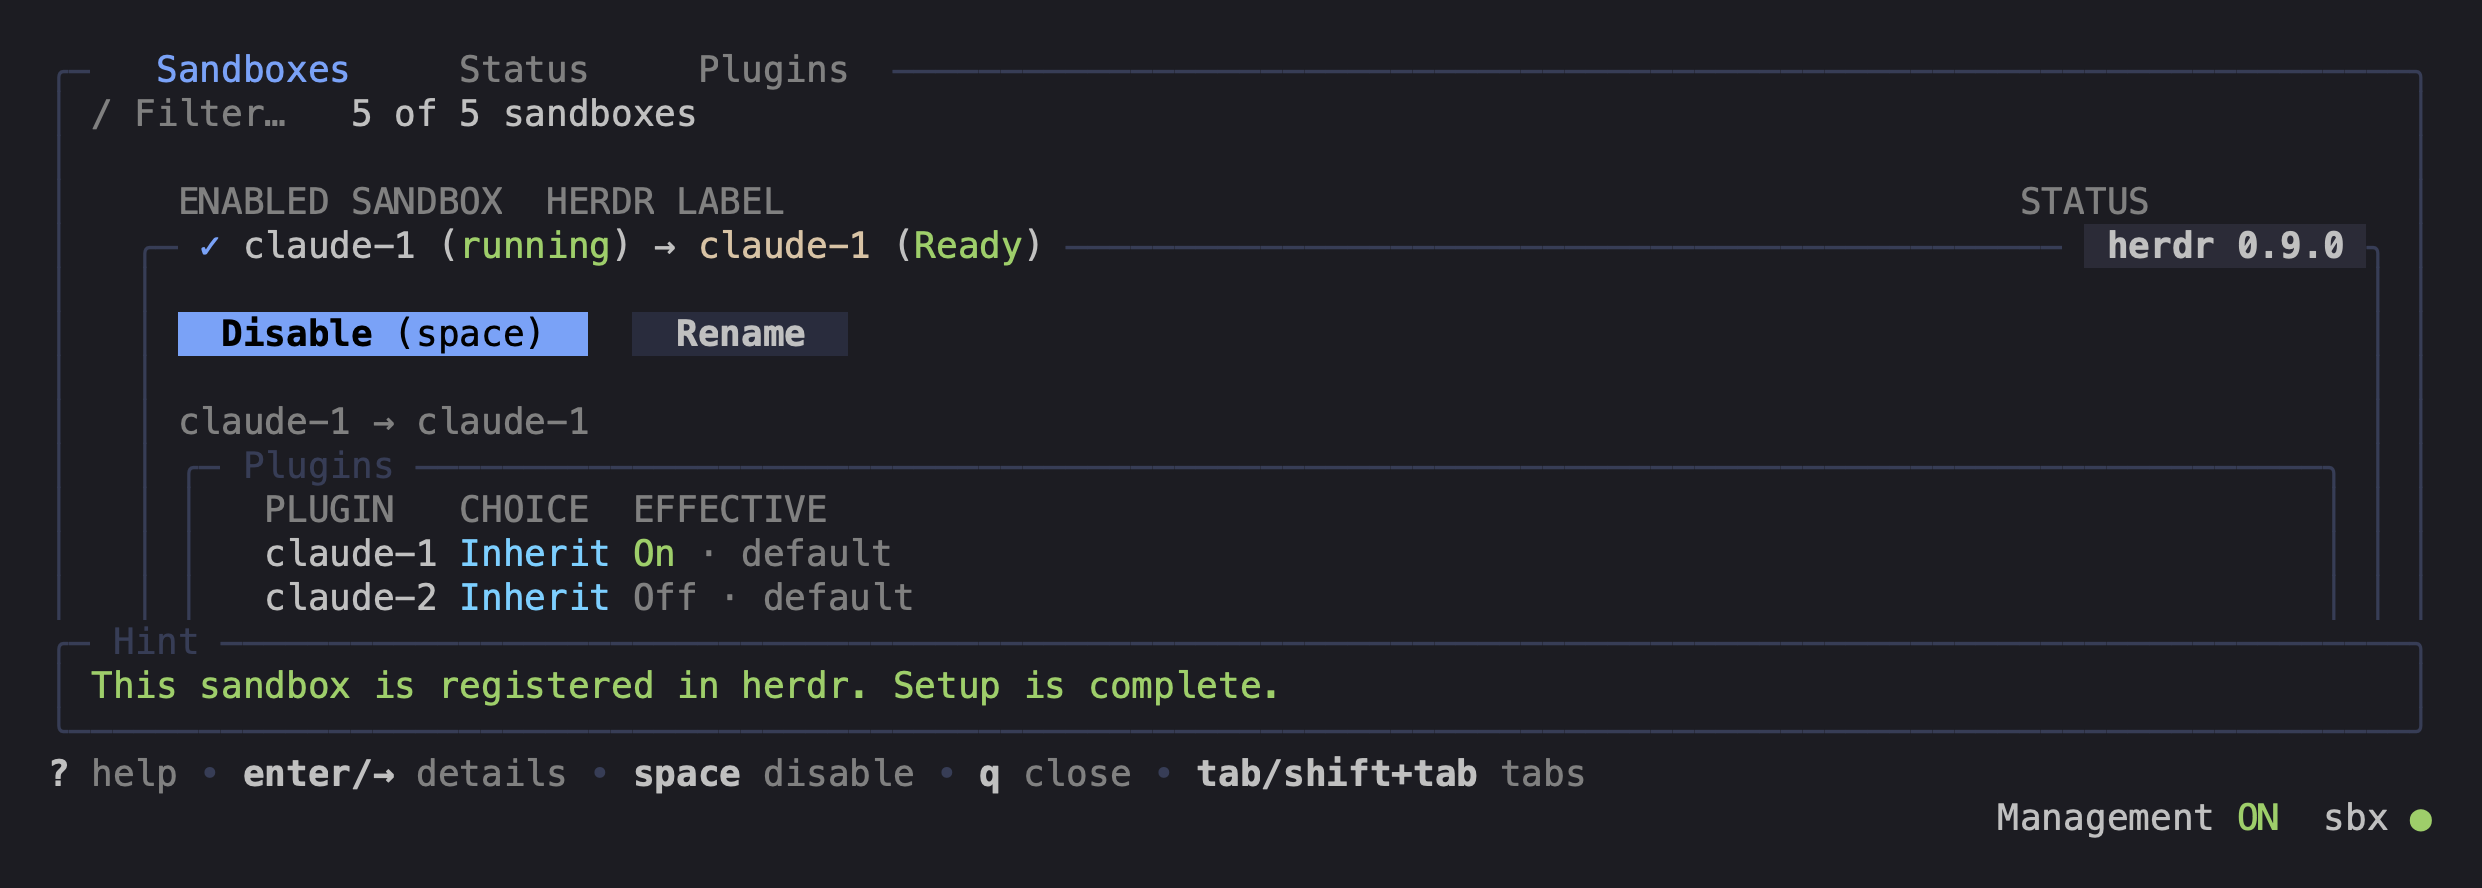
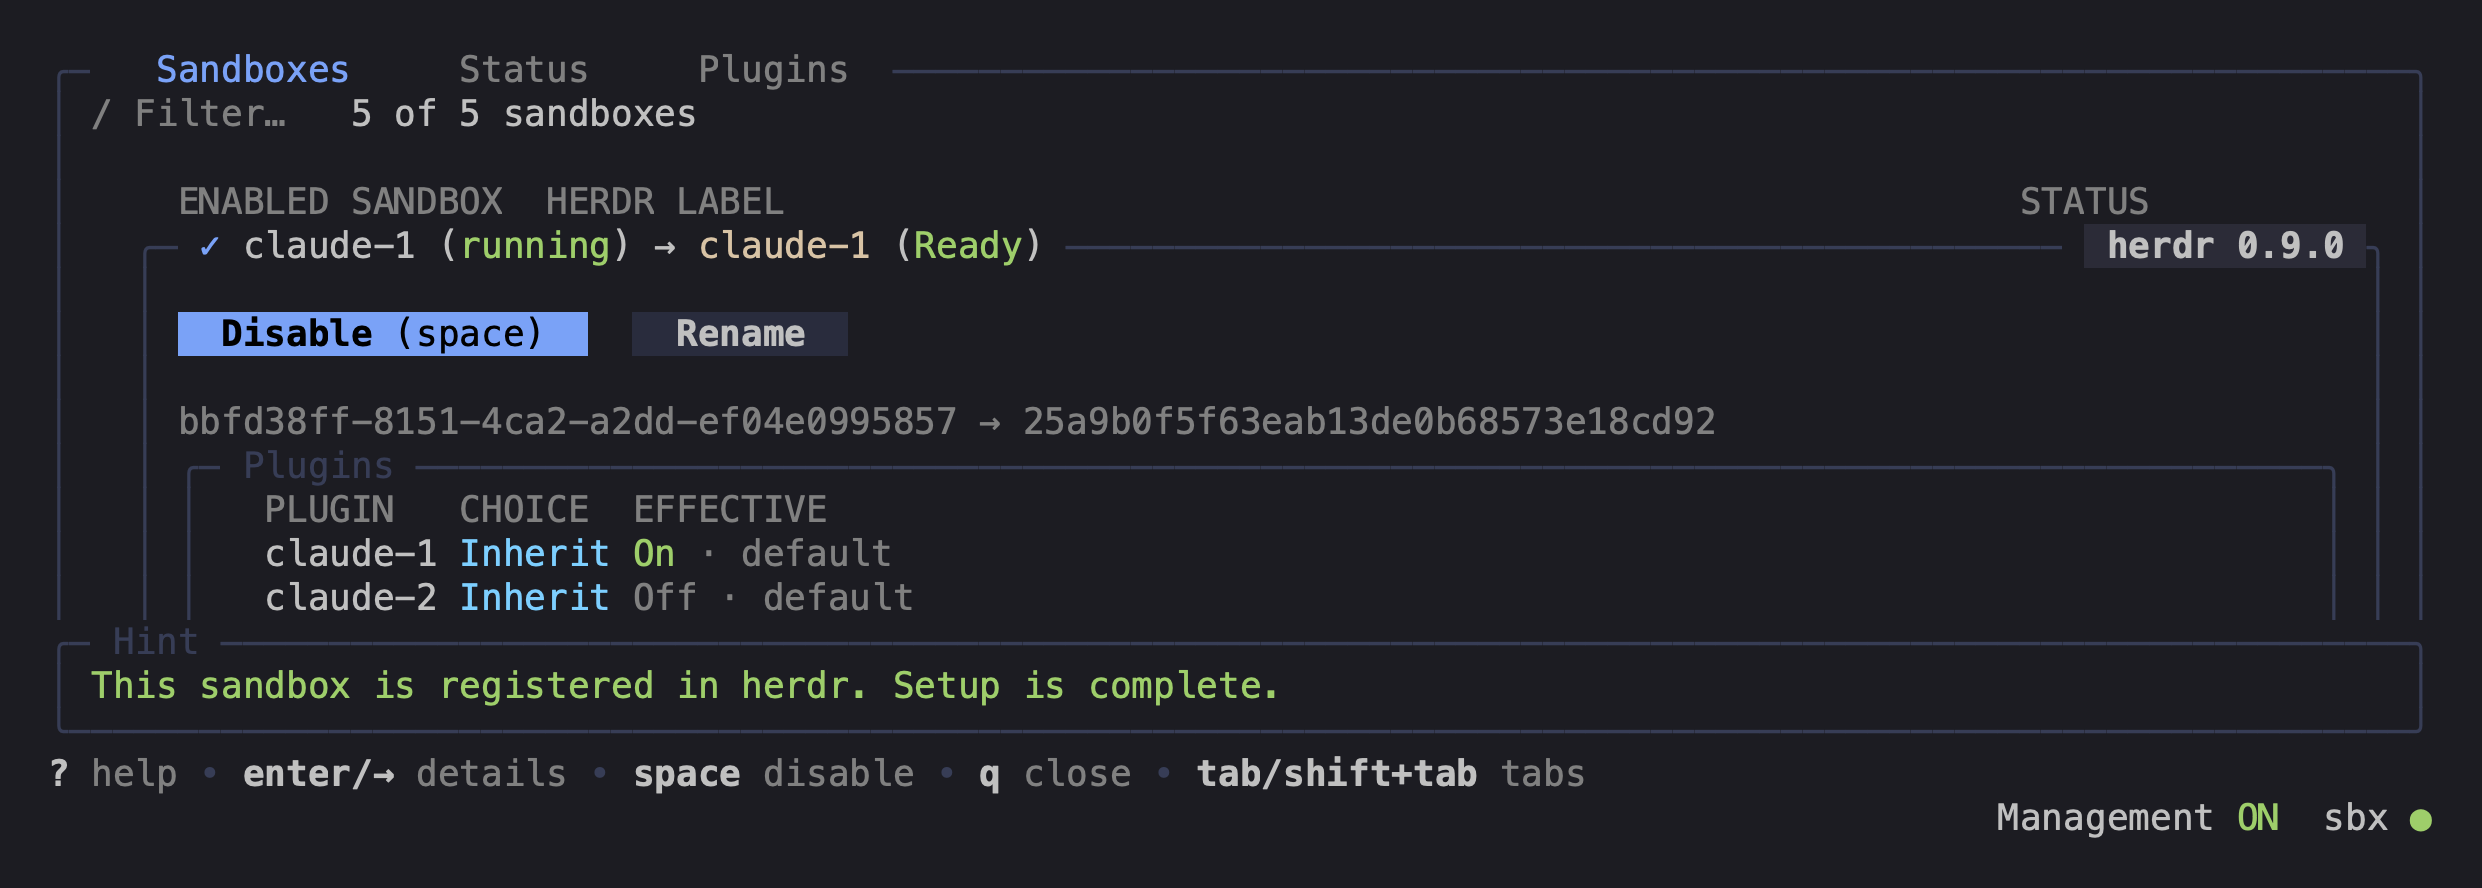
Use realistic sandbox and herdr IDs in screenshots

Changed region(s): [[0.062, 0.4561, 0.6825, 0.4865]]

diff --git a/internal/panel/screenshots_test.go b/internal/panel/screenshots_test.go
@@ -37,10 +37,10 @@ func TestCaptureScreenshots(t *testing.T) {
 	write("sandboxes", m)
 	m = screenshotModel()
 	m.width, m.height = 110, 42
-	m.expanded, m.focus = "claude-1", "actions"
+	m.expanded, m.focus = m.selected, "actions"
 	m.button = 1
 	at := time.Date(2026, 10, 19, 12, 30, 0, 0, time.UTC)
-	m.errors = []uiError{{ref: "claude", code: store.CodeGuestPluginSync, scope: store.StatusKey("claude", "claude-1"), pluginID: "claude-2", detail: "Manual intervention required. The herdr plugin build could not finish.", recovery: "Repair the build dependencies in this sandbox, then choose Re-sync to check the plugin again.", output: "Build step 1 failed: a required build dependency is unavailable.", count: 3, firstSeen: at, seen: at}}
+	m.errors = []uiError{{ref: "claude", code: store.CodeGuestPluginSync, scope: store.StatusKey("claude", m.selected), pluginID: "claude-2", detail: "Manual intervention required. The herdr plugin build could not finish.", recovery: "Repair the build dependencies in this sandbox, then choose Re-sync to check the plugin again.", output: "Build step 1 failed: a required build dependency is unavailable.", count: 3, firstSeen: at, seen: at}}
 	write("sandbox-details", m)
 	m = screenshotModel()
 	m.width, m.height = 110, 28
@@ -73,7 +73,7 @@ func TestCaptureScreenshots(t *testing.T) {
 func screenshotModel() *model {
 	m := &model{page: "Sandboxes", focus: "table", width: 110, height: 18,
 		queries: map[string]string{}, pending: map[string]bool{}, pendingChoices: map[string]pluginChoiceChange{},
-		selected: "claude-1", expanded: "claude-1", workerEnabled: true, workerLoaded: true,
+		workerEnabled: true, workerLoaded: true,
 		worker:   store.WorkerStatus{State: "running", LastSync: time.Now()},
 		plugins:  []guestplugins.Choice{{ID: "claude-1", Enabled: true, Installed: true}, {ID: "claude-2", Installed: true}, {ID: "claude-3", Installed: true, UnsupportedReason: "This herdr plugin does not support Linux sandboxes."}},
 		settings: store.GuestPluginDefaults{Plugins: map[string]store.GuestPluginDefault{"claude-1": {Enabled: true}, "claude-2": {Enabled: false}}},
@@ -82,21 +82,29 @@ func screenshotModel() *model {
 	choices := []store.EnabledChoice{store.Enabled, store.Enabled, store.Disabled, store.Disabled, store.Disabled}
 	states := []string{"running", "stopped", "running", "stopped", "stopped"}
 	connections := []string{"Ready", "Waiting for start", "Disabled in herdr", "Stopped", "Stopped"}
+	sandboxIDs := []string{
+		"bbfd38ff-8151-4ca2-a2dd-ef04e0995857",
+		"178a804c-01a8-4b56-a98a-c0195c6dc27d",
+		"45869cb2-429e-45ba-b714-79daa736d586",
+		"d310d4db-b16a-4a09-a831-fec0a7ea6ad8",
+		"e8321142-7f39-4b84-9ac8-11fa7080d9fb",
+	}
+	profileIDs := []string{"25a9b0f5f63eab13de0b68573e18cd92", "92c3df06bd5143e7a76d1f608d841b2c", "4cd97acb00af4ce68239298e9f082936"}
 	for i, name := range []string{"claude-1", "claude-2", "claude-3", "claude-4", "claude-5"} {
-		row := registration.SandboxRow{Sandbox: sbx.Sandbox{ID: name, Name: name, Status: states[i]}, Scope: "claude", Enabled: choices[i], Label: name, EntryPresent: i < 3,
+		row := registration.SandboxRow{Sandbox: sbx.Sandbox{ID: sandboxIDs[i], Name: name, Status: states[i]}, Scope: "claude", Enabled: choices[i], Label: name, EntryPresent: i < 3,
 			Status: store.SandboxStatus{Connection: connections[i], ObservedAt: time.Now(), GuestServer: &store.GuestServerObservation{Version: "0.9.0", Current: true, CheckedAt: time.Now()}}}
 		native := i == 0
 		if row.EntryPresent {
 			row.NativeEnabled = &native
-			row.ProfileID = name
+			row.ProfileID = profileIDs[i]
 		} else {
 			row.Label = ""
 		}
 		if i == 0 {
-			row.ProfileID = name
 			row.Status.Detail = "This sandbox is registered in herdr. Setup is complete."
 		}
 		m.rows = append(m.rows, row)
 	}
+	m.selected, m.expanded = sandboxIDs[0], sandboxIDs[0]
 	return m
 }
